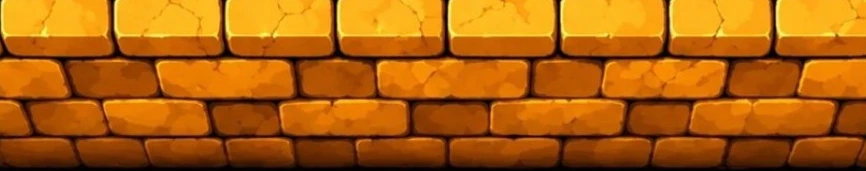
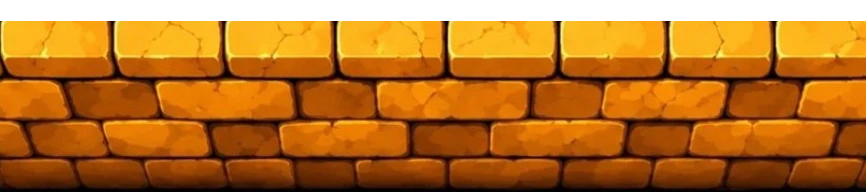
v364: muro a la misma altura que el de las jaulas
Claude-Session: https://claude.ai/code/session_01DgwxjcUMF2itNAHTgp1uQ8

diff --git a/sw.js b/sw.js
@@ -1,4 +1,4 @@
-const C='mapmix-v308';const F=['./','index.html','manifest.webmanifest','icon-192.png','icon-512.png'];
+const C='mapmix-v309';const F=['./','index.html','manifest.webmanifest','icon-192.png','icon-512.png'];
 self.addEventListener('install',e=>{self.skipWaiting();e.waitUntil(caches.open(C).then(c=>c.addAll(F)));});
 self.addEventListener('activate',e=>e.waitUntil(caches.keys().then(k=>Promise.all(k.filter(x=>x!==C).map(x=>caches.delete(x)))).then(()=>self.clients.claim())));
 self.addEventListener('fetch',e=>{if(e.request.method!=='GET')return;e.respondWith(fetch(e.request).then(r=>{const cp=r.clone();caches.open(C).then(c=>c.put(e.request,cp));return r;}).catch(()=>caches.match(e.request)));});
